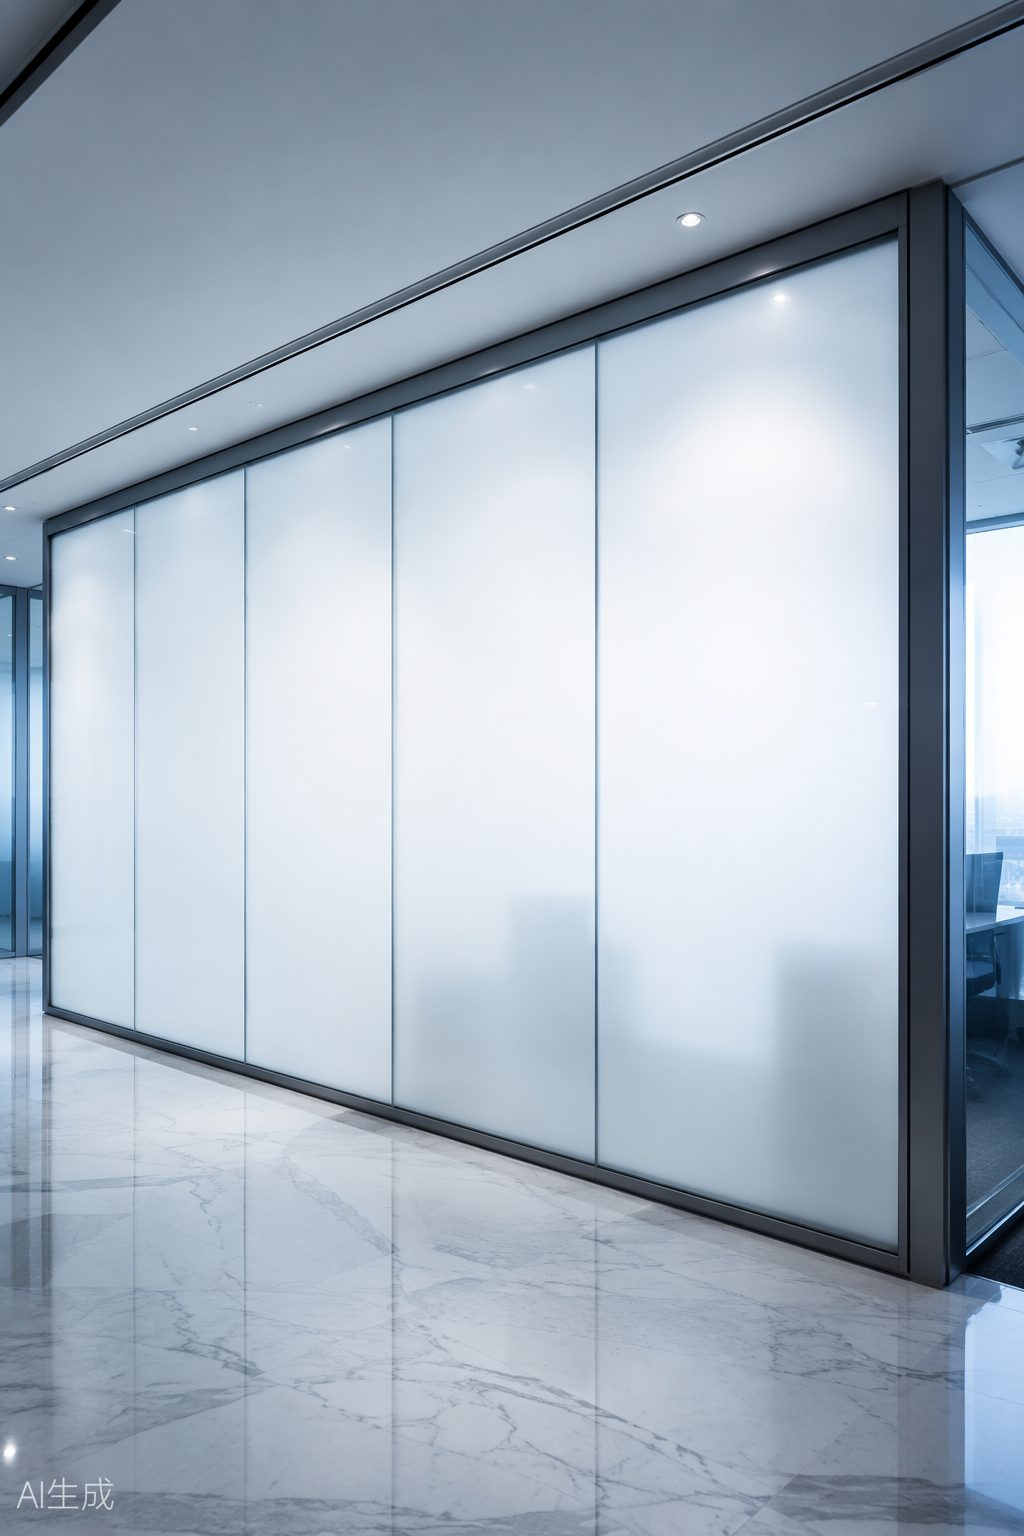
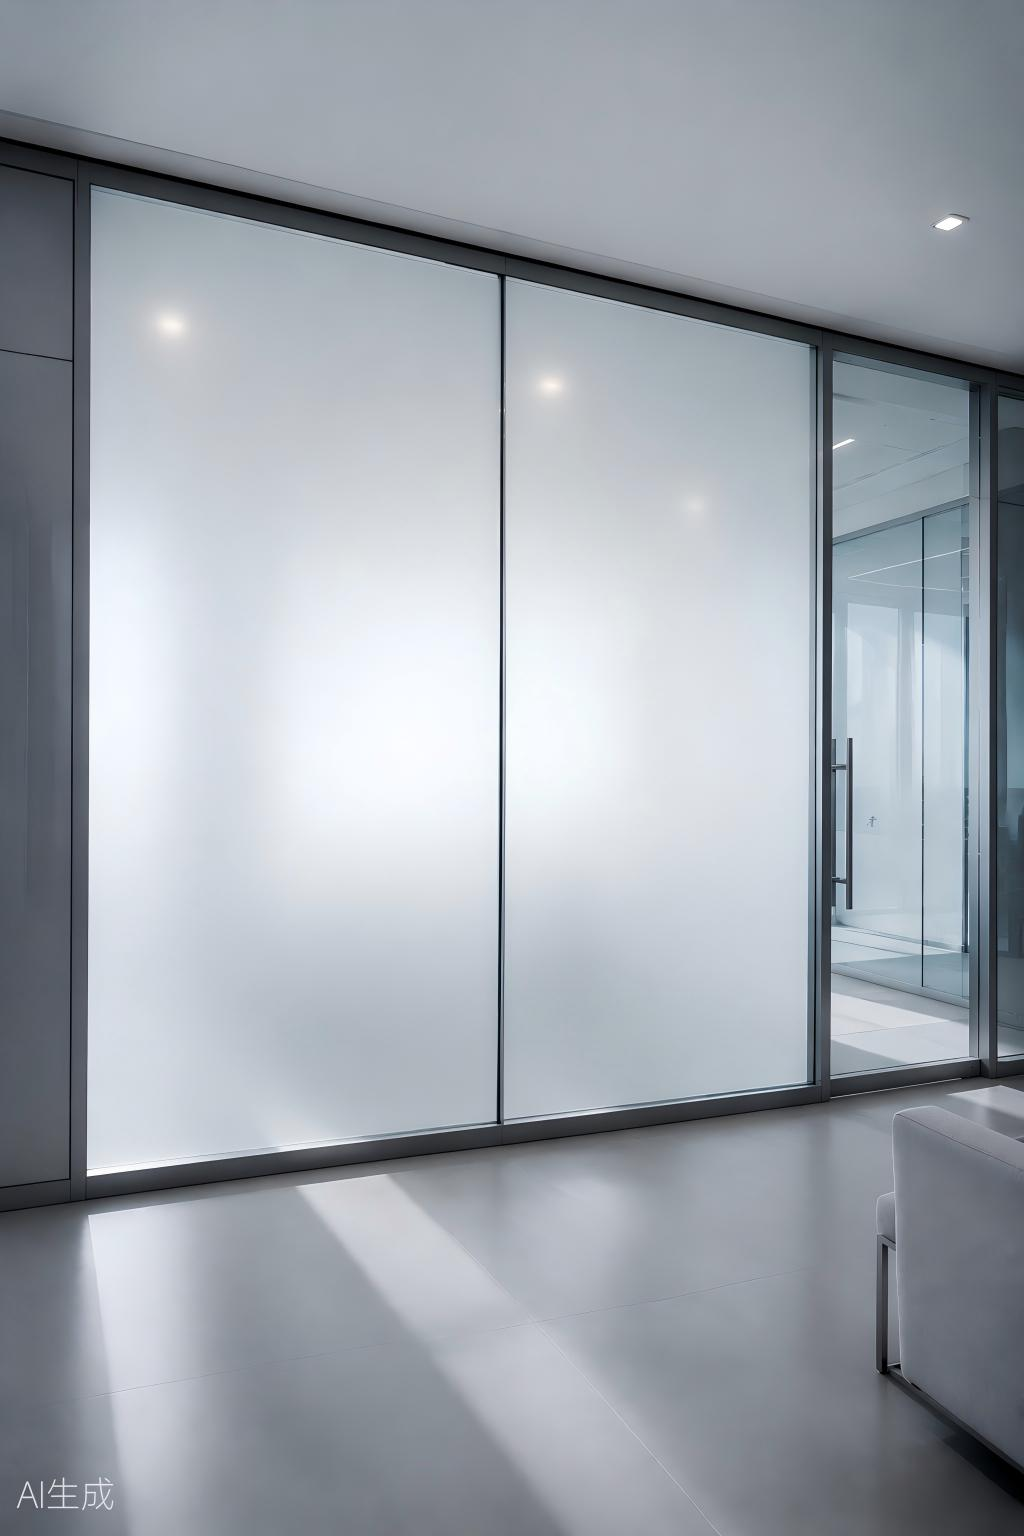
20260725

diff --git a/DEPLOY.md b/DEPLOY.md
@@ -28,7 +28,7 @@ git push -u origin main
 |---|---|---|
 | `POSTGRES_URL` | Yes* | Connection string of Vercel Postgres (Storage → Create Database → Postgres). |
 | `SUPABASE_URL` + `SUPABASE_SERVICE_KEY` | Yes* | Alternative to Postgres: use a free Supabase project instead. |
-| `ADMIN_KEY` | Yes | Password for the `/admin` page and admin API. Choose a strong random string. |
+| `Ast147852` | Yes | Password for the `/admin` page and admin API. Choose a strong random string. |
 | `RESEND_API_KEY` | Recommended | API key from https://resend.com for email notifications. |
 | `NOTIFY_EMAIL` | Recommended | Where inquiry notification emails are sent, e.g. `sales@aysentsmartfilm.com`. |
 | `FROM_EMAIL` | Optional | Sender address. Default: `AYSENT Website <onboarding@resend.dev>` (Resend test domain — works immediately). For a custom sender like `noreply@yourdomain.com`, verify the domain in Resend first. |
@@ -54,7 +54,7 @@ CREATE TABLE IF NOT EXISTS inquiries (
 ## 5. Done — How It Works
 
 - A visitor submits any inquiry form → `POST /api/inquiry` → saved to the `inquiries` table → notification email sent via Resend (email failures never block the visitor).
-- You open **https://your-domain.com/admin**, enter your `ADMIN_KEY`, and see every inquiry with name, company, email, country, requirements and submission time.
+- You open **https://your-domain.com/admin**, enter your `Ast147852`, and see every inquiry with name, company, email, country, requirements and submission time.
 - **Export CSV** button downloads all inquiries (Excel-friendly UTF-8).
 
 ## 6. Local Development (optional)
